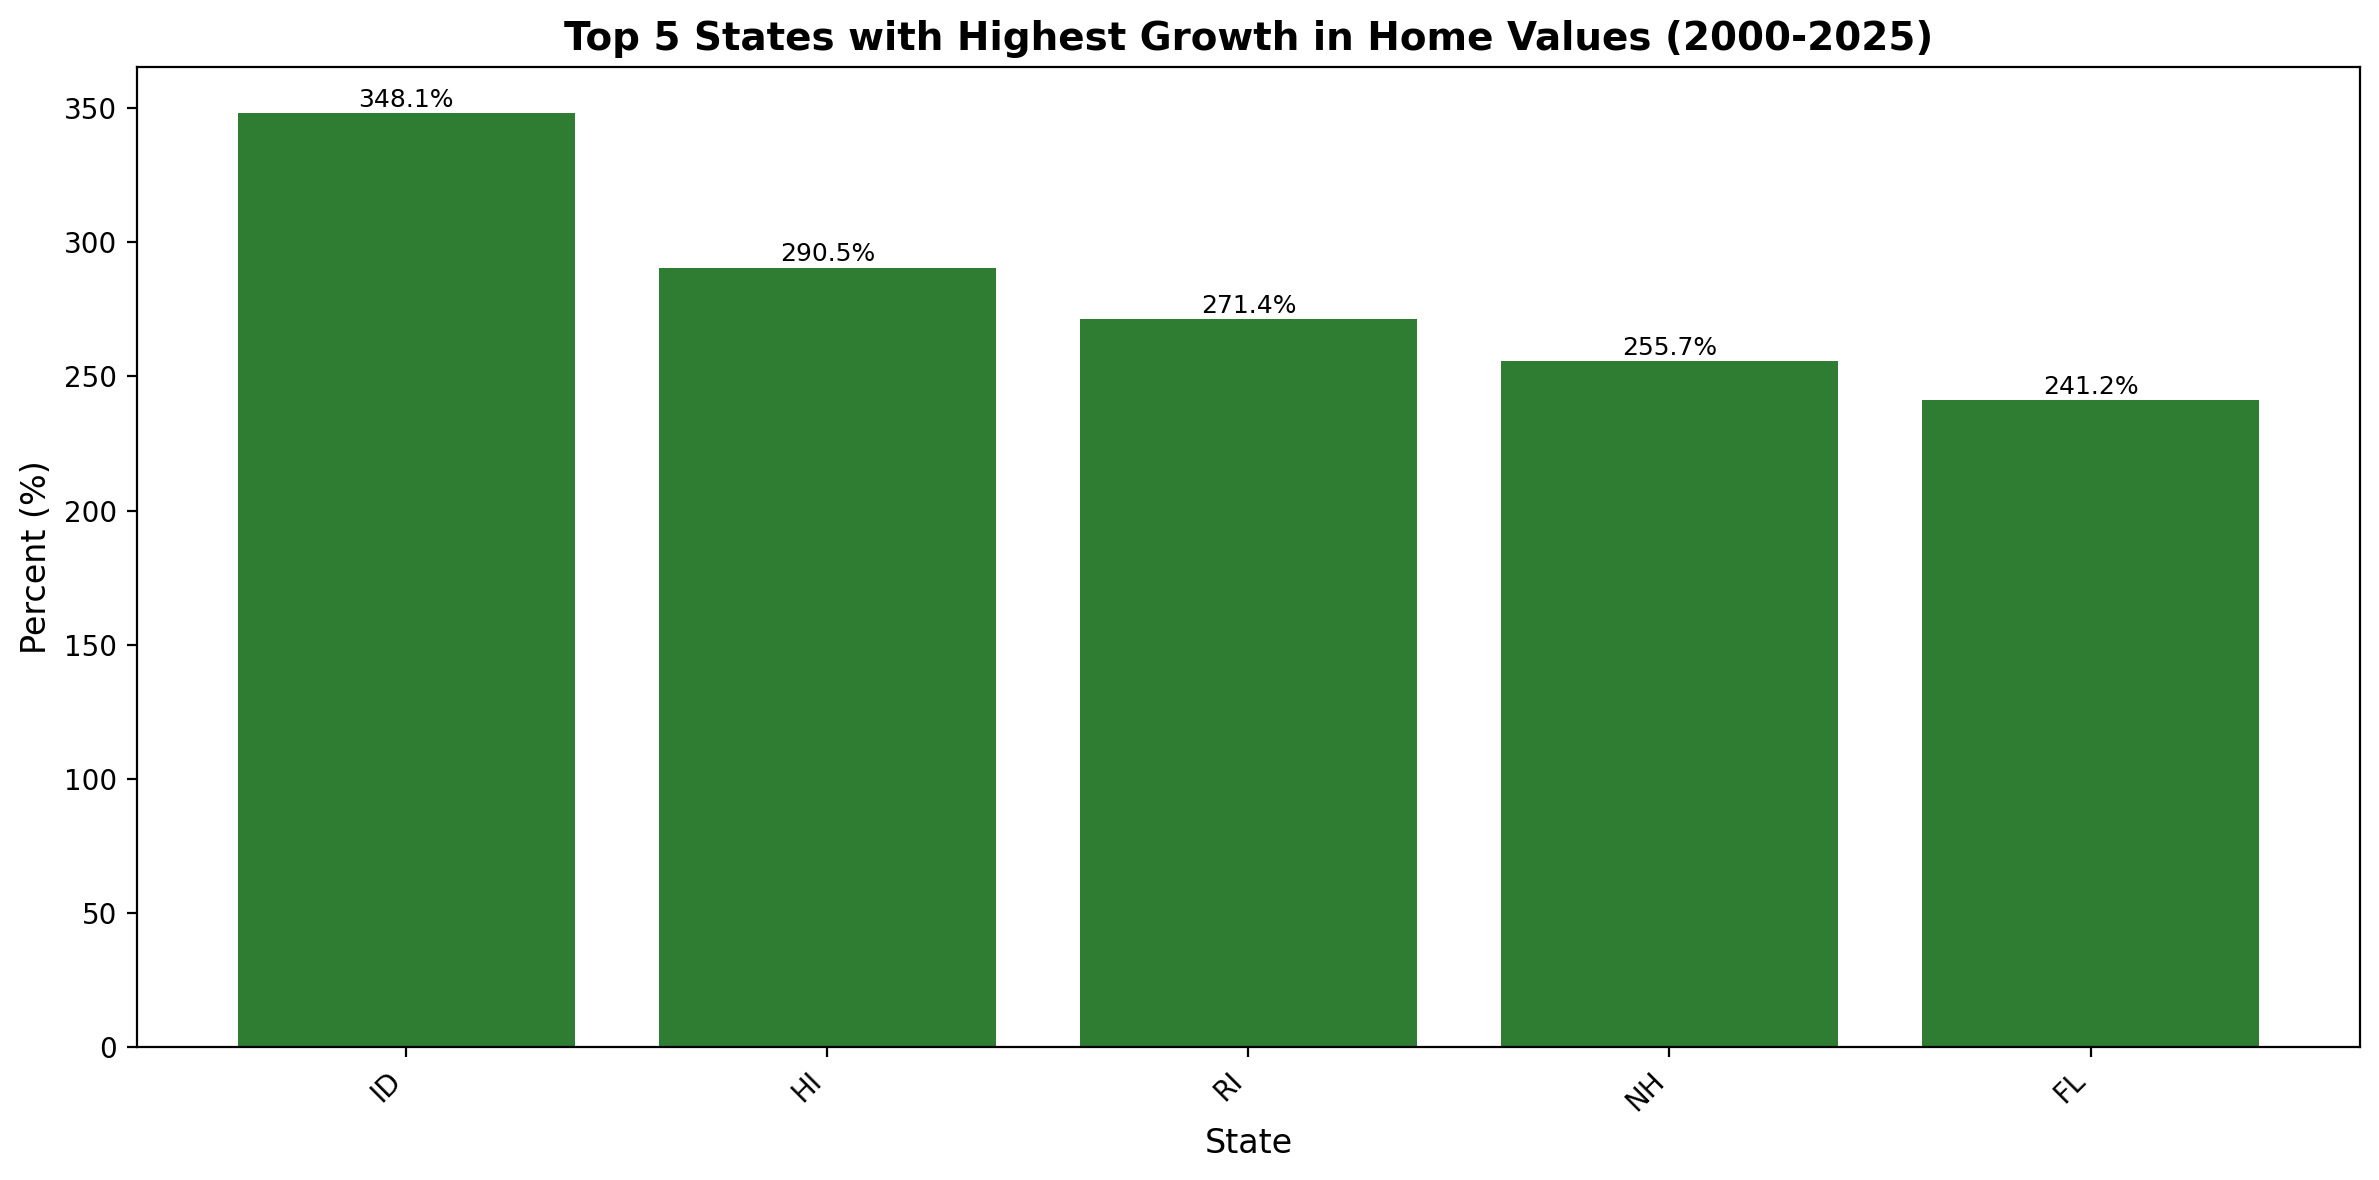
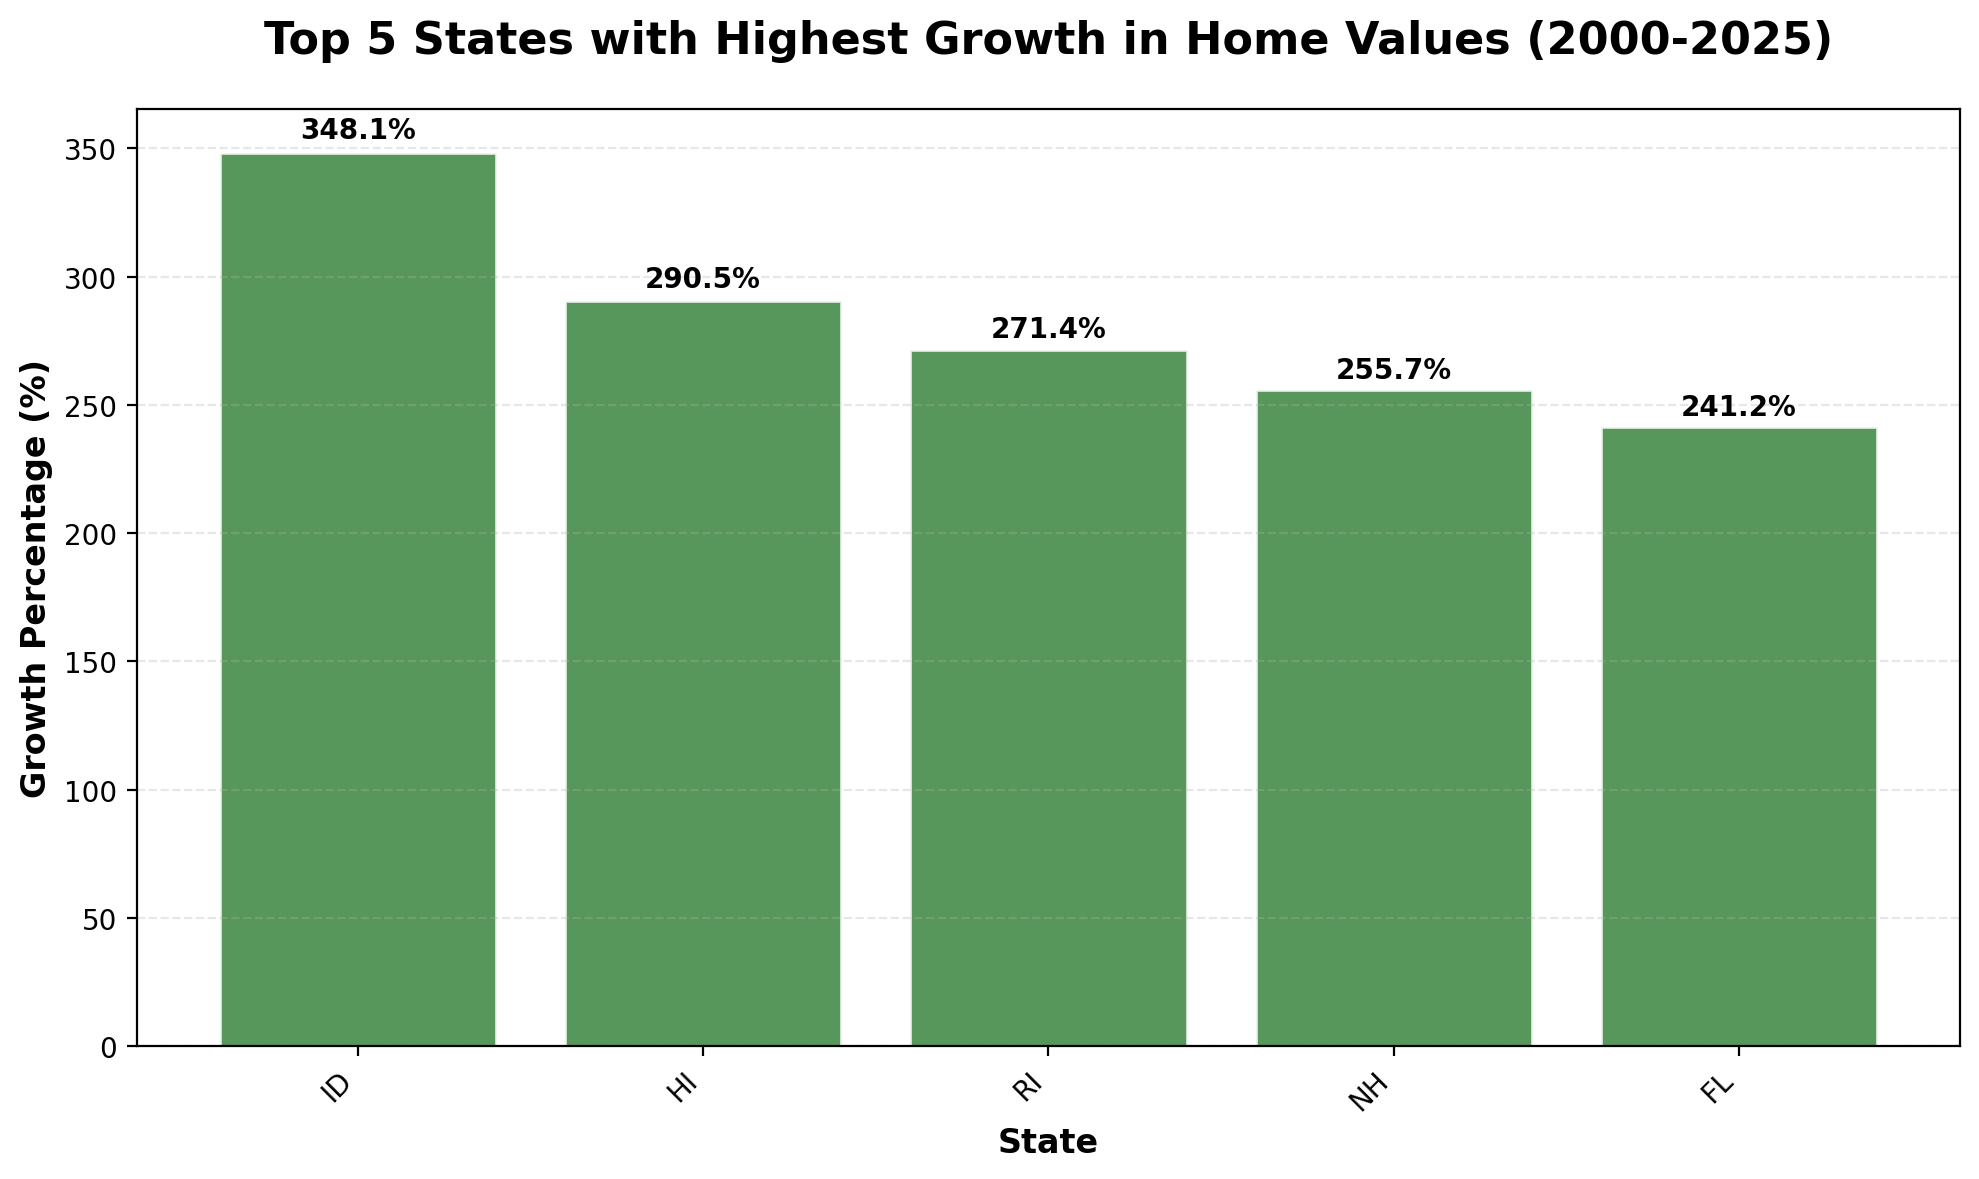
Beautify Q2 and Q3 charts: improve dimensions, styling, and visual appeal

diff --git a/housing-portfolio/scripts/run_analysis.py b/housing-portfolio/scripts/run_analysis.py
@@ -46,19 +46,22 @@ def bar_chart(df: pd.DataFrame, x: str, y: str, title: str, filename: str, top_n
     # Sort with highest values on the left (ascending=False)
     df = df.sort_values(y, ascending=False)
     
-    plt.figure(figsize=(12, 6))
-    bars = plt.bar(df[x], df[y], color="#2E7D32")
-    plt.title(title, fontsize=14, fontweight="bold")
-    plt.xlabel("State", fontsize=12)
-    plt.ylabel("Percent (%)", fontsize=12)
-    plt.xticks(rotation=45, ha="right")
+    plt.figure(figsize=(10, 6))
+    bars = plt.bar(df[x], df[y], color="#2E7D32", alpha=0.8, edgecolor='white', linewidth=1)
+    plt.title(title, fontsize=16, fontweight="bold", pad=20)
+    plt.xlabel("State", fontsize=12, fontweight="bold")
+    plt.ylabel("Growth Percentage (%)", fontsize=12, fontweight="bold")
+    plt.xticks(rotation=45, ha="right", fontsize=10)
+    plt.yticks(fontsize=10)
     
     # Add value labels on top of bars
     for bar in bars:
         height = bar.get_height()
-        plt.text(bar.get_x() + bar.get_width()/2., height + 0.5,
-                f'{height:.1f}%', ha='center', va='bottom', fontsize=9)
+        plt.text(bar.get_x() + bar.get_width()/2., height + height*0.01,
+                f'{height:.1f}%', ha='center', va='bottom', fontsize=10, fontweight="bold")
     
+    # Add subtle grid
+    plt.grid(axis='y', alpha=0.3, linestyle='--')
     plt.tight_layout()
     out = FIGS / f"{filename}.png"
     plt.savefig(out, dpi=200, bbox_inches="tight")
@@ -187,17 +190,19 @@ def run_queries(con: duckdb.DuckDBPyConnection):
         # Sort with highest values at the top
         df3 = df3.sort_values('pct_growth', ascending=True)
         
-        plt.figure(figsize=(12, 8))
-        bars = plt.barh(df3['city_state'], df3['pct_growth'], color="#FF6B35")  # Orange color for cities
+        plt.figure(figsize=(10, 6))
+        bars = plt.barh(df3['city_state'], df3['pct_growth'], color="#FF6B35", alpha=0.8, edgecolor='white', linewidth=1)
         
-        plt.title('Top 5 Cities with Highest Growth in Home Values (2000-2025)', fontsize=14, fontweight='bold')
-        plt.xlabel('Growth Percentage (%)', fontsize=12)
-        plt.ylabel('City, State', fontsize=12)
+        plt.title('Top 5 Cities with Highest Growth in Home Values (2000-2025)', fontsize=16, fontweight='bold', pad=20)
+        plt.xlabel('Growth Percentage (%)', fontsize=12, fontweight='bold')
+        plt.ylabel('City, State', fontsize=12, fontweight='bold')
+        plt.xticks(fontsize=10)
+        plt.yticks(fontsize=10)
         
         # Add value labels on the right side of bars
         for i, bar in enumerate(bars):
             width = bar.get_width()
-            plt.text(width + 1, bar.get_y() + bar.get_height()/2,
+            plt.text(width + width*0.01, bar.get_y() + bar.get_height()/2,
                     f'{width:.1f}%', ha='left', va='center', fontsize=10, fontweight='bold')
         
         # Add grid for better readability
